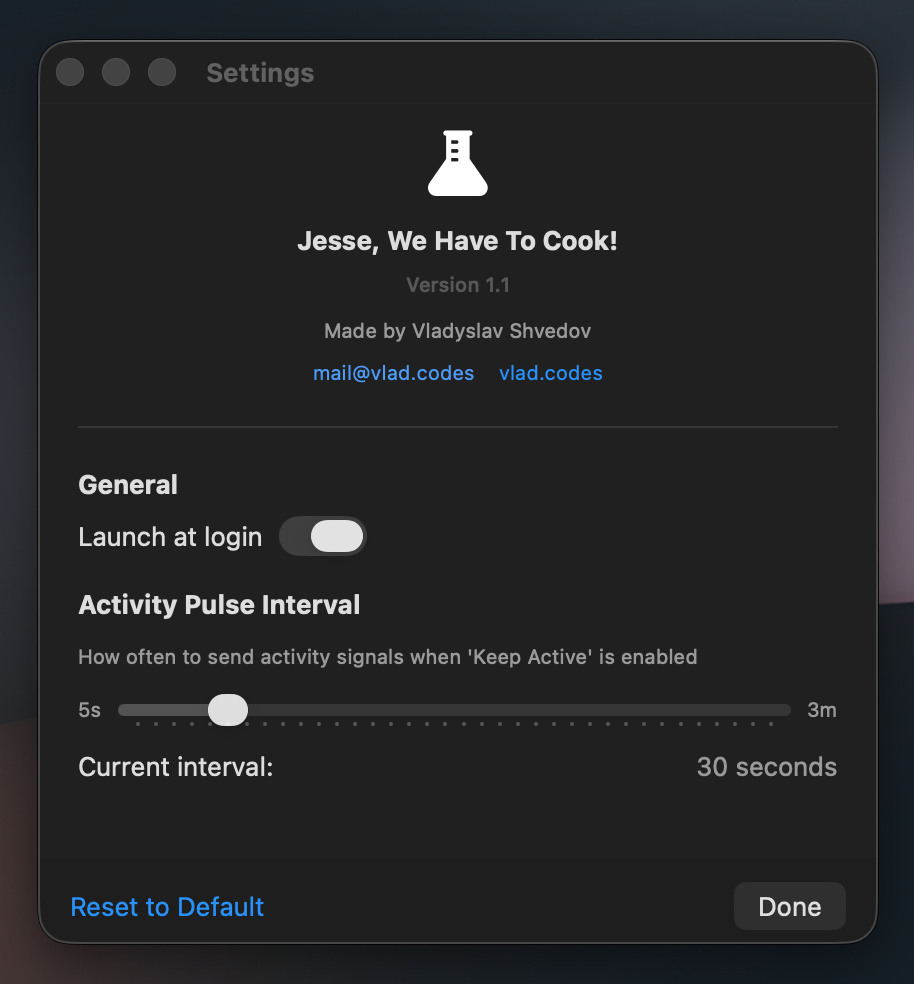
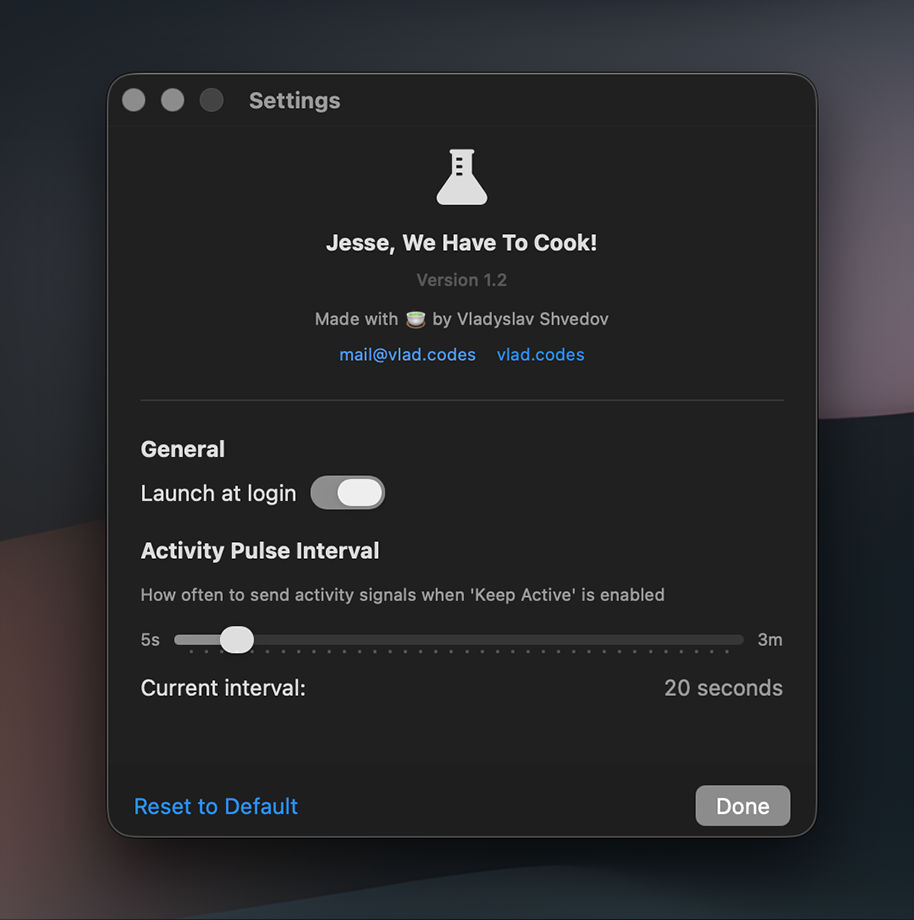
Update app title, description, and download link for clarity and accuracy in jessewehavetocook.html

diff --git a/jessewehavetocook.html b/jessewehavetocook.html
@@ -1,18 +1,18 @@
 ---
 layout: default
-title: Jesse, We Have to Cook - macOS untility to prevent sleep and stay active in Slack, Teams, and messaging apps
-description: Free Mac app to prevent sleep mode and stay active in Slack, Teams, and messaging apps. Lightweight menu bar utility with minimal CPU and RAM usage.
+title: Jesse, We Have to Cook - macOS utility to prevent sleep and stay active in messaging apps
+description: Free Mac app to prevent sleep mode and stay active in messaging apps. Lightweight menu bar utility with minimal CPU and RAM usage.
 keywords: mac app, menu bar utility, prevent sleep, stay awake, slack active, teams active, macos utility, free software, open source, system utility, productivity tool, remote work, work from home
 author: Vladyslav Shvedov
-og:title: Jesse, We Have to Cook - Mac Menu Bar Utility
-og:description: Keep your Mac awake and stay active in Slack, Teams, and other apps with this free, lightweight menu bar utility.
+og:title: Jesse, We Have to Cook - macOS utility to prevent sleep and stay active in messaging apps
+og:description: Keep your Mac awake and stay active in messaging apps with this free, lightweight menu bar utility.
 og:type: website
 og:image: /assets/img/screenshots/jwhtc_screen_01.png
 twitter:card: summary_large_image
-twitter:title: Jesse, We Have to Cook - Mac Menu Bar Utility
+twitter:title: Jesse, We Have to Cook - macOS utility to prevent sleep and stay active in messaging apps
 twitter:description: Free Mac app to prevent sleep mode and stay active in messaging apps
 twitter:image: /assets/img/screenshots/jwhtc_screen_01.png
-canonical_url: https://vladcodes.com/jessewehavetocook
+canonical_url: https://vlad.codes/jessewehavetocook
 ---
 
 {% include header.html %}
@@ -25,7 +25,7 @@ canonical_url: https://vladcodes.com/jessewehavetocook
   </div>
 
   <p style="margin: 20px 0; padding: 15px; background: #f7f7f7; border-radius: 5px; text-align: center;">
-    <a href="https://github.com/vshvedov/JesseWeHaveToCook/releases/download/v1.1/JWHTC-v.1.1.zip" target="_blank" rel="noopener" style="margin-right: 15px; font-weight: bold;">[Download v1.1 - Free]</a>
+    <a href="https://github.com/vshvedov/JesseWeHaveToCook/releases/download/v1.2/JWHTC_latest.zip" target="_blank" rel="noopener" style="margin-right: 15px; font-weight: bold;">[Download]</a>
     <a href="https://github.com/vshvedov/JesseWeHaveToCook" target="_blank" rel="noopener" style="font-weight: bold;">[View Source Code]</a>
   </p>
 
@@ -52,9 +52,6 @@ canonical_url: https://vladcodes.com/jessewehavetocook
 
   <h2>Screenshots</h2>
   <p>
-    "Keep Awake" prevents your Mac from starting the screensaver or going to sleep. "Keep Active" simulates user activity to maintain active status in messaging apps.
-  </p>
-  <p>
     <img src="/assets/img/screenshots/jwhtc_screen_01.png" alt="Jesse, We Have to Cook Screenshot 1" style="max-width: 100%; margin-bottom: 10px;" />
     <img src="/assets/img/screenshots/jwhtc_screen_02.png" alt="Jesse, We Have to Cook Screenshot 2" style="max-width: 100%; margin-bottom: 10px;" />
   </p>
@@ -62,7 +59,7 @@ canonical_url: https://vladcodes.com/jessewehavetocook
   <h2>Key Features</h2>
   <ul itemprop="featureList">
     <li><strong>Prevent Mac Sleep Mode:</strong> Keep your macOS computer awake and active without manual intervention</li>
-    <li><strong>Stay Active in Messaging Apps:</strong> Maintain online presence in Slack, Microsoft Teams, Discord, Zoom, and other communication platforms</li>
+    <li><strong>Stay Active in Messaging Apps:</strong> Maintain online presence in communication platforms</li>
     <li><strong>Lightweight & Efficient:</strong> Minimal RAM and CPU footprint (under 10MB memory usage) - won't impact system performance</li>
     <li><strong>Menu Bar Integration:</strong> Easy access and control directly from your macOS menu bar</li>
     <li><strong>Open Source Software:</strong> Fully transparent, auditable codebase available on GitHub</li>
@@ -71,34 +68,11 @@ canonical_url: https://vladcodes.com/jessewehavetocook
     <li><strong>macOS Native:</strong> Built specifically for Mac with native macOS APIs</li>
   </ul>
 
-  <h2>Perfect For</h2>
-  <ul>
-    <li><strong>Remote Workers:</strong> Stay active during virtual meetings and collaboration</li>
-    <li><strong>Freelancers:</strong> Maintain client communication availability</li>
-    <li><strong>Students:</strong> Keep online presence during virtual classes and study groups</li>
-    <li><strong>Developers:</strong> Prevent interruptions during code compilation and long processes</li>
-    <li><strong>Content Creators:</strong> Maintain streaming presence and audience engagement</li>
-    <li><strong>Team Leaders:</strong> Show availability for team support and quick responses</li>
-  </ul>
-
-  <h2>Supported Applications</h2>
-  <p>Works with all macOS applications including:</p>
-  <ul>
-    <li><strong>Slack</strong> - Stay active in team channels and direct messages</li>
-    <li><strong>Microsoft Teams</strong> - Maintain presence in meetings and chats</li>
-    <li><strong>Discord</strong> - Keep online status in gaming and community servers</li>
-    <li><strong>Zoom</strong> - Prevent disconnection during long meetings</li>
-    <li><strong>Skype</strong> - Stay available for business calls</li>
-    <li><strong>WhatsApp Desktop</strong> - Maintain messaging availability</li>
-    <li><strong>Telegram</strong> - Keep active status in group chats</li>
-    <li>And any other macOS application that detects system activity</li>
-  </ul>
-
   <h3>System Requirements</h3>
   <ul>
     <li><strong>Operating System:</strong> macOS 10.14 (Mojave) or later</li>
-    <li><strong>Architecture:</strong> Intel and Apple Silicon (M1/M2/M3) Macs supported</li>
-    <li><strong>Memory:</strong> ~35MB RAM usage</li>
+    <li><strong>Architecture:</strong> Apple Silicon and Intel Macs supported</li>
+    <li><strong>Memory:</strong> ~30MB RAM usage</li>
     <li><strong>Storage:</strong> Under 4MB disk space</li>
   </ul>
 
@@ -109,12 +83,4 @@ canonical_url: https://vladcodes.com/jessewehavetocook
     <li>Drag the app to your Applications folder (optional)</li>
     <li>Double-click to run - the app will appear in your menu bar</li>
   </ol>
-
-  <p><small><em>Jesse, We Have to Cook is compatible with all modern macOS versions. No administrator privileges required. The app is ad-hoc code-signed for security.</em></small></p>
-
-  <footer style="margin-top: 40px; padding-top: 20px; border-top: 1px solid #eee; font-size: 0.9em; color: #666;">
-    <p>
-      <strong>Keywords:</strong> mac stay awake app, prevent mac sleep, slack active status, teams online presence, macos menu bar utility, free productivity software, open source mac app, remote work tools, system utility, macbook awake, computer activity simulator
-    </p>
-  </footer>
 </div>
